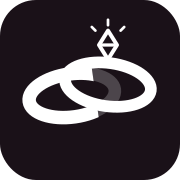
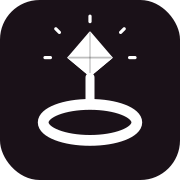
Brunch oui/non, stats 4+3 colonnes, icône solitaire, sync Supabase prioritaire
https://claude.ai/code/session_01TzBPeyMmDh2J5GMainPLPY

diff --git a/index.html b/index.html
@@ -488,6 +488,72 @@ body {
 
 /* ── CATEGORY TAG ── */
 .tag-cat { background: var(--gold-dim); color: var(--gold); }
+.tag-std-envoyé  { background: rgba(245,158,11,0.12); color: #b45309; border: 1.5px solid #f59e0b; }
+.tag-std-confirmé { background: var(--green-dim); color: var(--green); border: 1.5px solid var(--green); }
+.tag-brunch { background: var(--blue-dim); color: var(--blue); border: 1.5px solid var(--blue); }
+
+/* ── LOGIN ── */
+.login-screen {
+  position: fixed; inset: 0; z-index: 100;
+  background: var(--bg);
+  display: flex; flex-direction: column;
+  align-items: center; justify-content: center;
+  padding: 40px 24px;
+}
+.login-title { font-size: 52px; font-weight: 800; letter-spacing: -2px; color: var(--text); margin-bottom: 6px; }
+.login-sub { font-size: 16px; color: var(--muted); margin-bottom: 48px; font-weight: 500; }
+.user-btns { display: flex; gap: 20px; }
+.user-btn {
+  flex: 1; min-width: 130px;
+  background: var(--surface); border: 2px solid var(--border);
+  border-radius: var(--radius-lg); padding: 28px 20px;
+  cursor: pointer; transition: all var(--t);
+  display: flex; flex-direction: column; align-items: center; gap: 10px;
+  box-shadow: var(--shadow);
+  font-family: 'Inter', sans-serif;
+}
+.user-btn:active { transform: scale(.96); border-color: var(--accent); }
+.user-btn .u-avatar { font-size: 40px; line-height: 1; }
+.user-btn .u-name { font-size: 16px; font-weight: 700; color: var(--text); letter-spacing: -.3px; }
+
+/* ── USER CHIP ── */
+.user-chip {
+  display: inline-flex; align-items: center; gap: 5px;
+  background: var(--accent-dim); color: var(--accent);
+  font-size: 11px; font-weight: 600;
+  padding: 3px 8px; border-radius: 20px; cursor: pointer;
+  border: none; font-family: 'Inter', sans-serif;
+}
+
+/* ── BRUNCH TOGGLE ── */
+.btn-toggle-brunch {
+  flex: 1;
+  padding: 10px 8px;
+  border-radius: var(--radius-sm);
+  border: 1.5px solid var(--border);
+  background: var(--surface2);
+  color: var(--text2);
+  font-size: 13px;
+  font-weight: 600;
+  cursor: pointer;
+  font-family: 'Inter', sans-serif;
+  transition: all var(--t);
+}
+.btn-toggle-brunch.active-oui { background: var(--green-dim); border-color: var(--green); color: var(--green); }
+.btn-toggle-brunch.active-non { background: var(--red-dim); border-color: var(--red); color: var(--red); }
+
+/* ── ACTIVITY LOG ── */
+.act-card {
+  background: var(--surface); border-radius: var(--radius);
+  padding: 12px 16px; border: 1px solid var(--border);
+  margin-bottom: 8px; box-shadow: var(--shadow-sm);
+}
+.act-header { display: flex; justify-content: space-between; align-items: center; margin-bottom: 4px; }
+.act-user { font-size: 12px; font-weight: 700; }
+.act-user.nounou { color: #1565c0; }
+.act-user.nounette { color: #c2185b; }
+.act-time { font-size: 11px; color: var(--muted); }
+.act-action { font-size: 13px; color: var(--text2); font-weight: 500; }
 </style>
 </head>
 <body>
@@ -634,12 +700,20 @@ body {
         </select>
       </div>
     </div>
-    <div class="field"><label>Save the Date (STD)</label>
-      <select id="g-std">
-        <option value="">— Non envoyé —</option>
-        <option value="envoyé">📩 Envoyé</option>
-        <option value="confirmé">📩 Confirmé</option>
-      </select>
+    <div class="two-col">
+      <div class="field"><label>Save the Date (STD)</label>
+        <select id="g-std">
+          <option value="">— Non envoyé —</option>
+          <option value="envoyé">📩 Envoyé</option>
+          <option value="confirmé">📩 Confirmé</option>
+        </select>
+      </div>
+      <div class="field"><label>Brunch</label>
+        <div style="display:flex;gap:8px;margin-top:2px">
+          <button type="button" id="g-brunch-oui" onclick="setBrunch('oui')" class="btn-toggle-brunch">✅ Oui</button>
+          <button type="button" id="g-brunch-non" onclick="setBrunch('non')" class="btn-toggle-brunch">❌ Non</button>
+        </div>
+      </div>
     </div>
     <div class="two-col">
       <div class="field"><label>Repas</label>
@@ -893,16 +967,20 @@ function clearActivity() {
 // ────────────────────────────────────────────────────────────────
 let gFilter = 'tous';
 let stdFilter = '';
+let brunchFilter = false;
 function statGuestFilter(f, sf) {
   gFilter = f;
   stdFilter = sf;
+  brunchFilter = (f === 'brunch');
+  if (brunchFilter) gFilter = 'tous';
   renderGuests();
 }
 function renderGuests() {
   const cote = document.getElementById('g-cote-filter').value;
   const cat  = document.getElementById('g-cat-filter').value;
   let list = guests.filter(g => {
-    if (gFilter !== 'tous' && g.statut !== gFilter) return false;
+    if (brunchFilter && g.brunch !== 'oui') return false;
+    if (!brunchFilter && gFilter !== 'tous' && g.statut !== gFilter) return false;
     if (stdFilter && g.std !== stdFilter) return false;
     if (cote && g.cote !== cote) return false;
     if (cat  && g.categorie !== cat) return false;
@@ -916,14 +994,20 @@ function renderGuests() {
   const stdEnvoye  = guests.filter(g => g.std === 'envoyé').length;
   const stdConfirm = guests.filter(g => g.std === 'confirmé').length;
   const totalNet   = oui + peutEtre;
-  document.getElementById('guests-stats').className = 'stats-row stats-3';
+  const brunchOui = guests.filter(g => g.brunch === 'oui').length;
+  document.getElementById('guests-stats').className = 'stats-row';
   document.getElementById('guests-stats').innerHTML = `
-    <div class="stat-card${gFilter==='tous'&&stdFilter===''?' active':''}" onclick="statGuestFilter('tous','')"><div class="stat-num">${totalNet}</div><div class="stat-lbl">Total</div></div>
-    <div class="stat-card${gFilter==='oui'?' active':''}" onclick="statGuestFilter('oui','')"><div class="stat-num" style="color:var(--green)">${oui}</div><div class="stat-lbl">Oui ✅</div></div>
-    <div class="stat-card${gFilter==='peut-être'?' active':''}" onclick="statGuestFilter('peut-être','')"><div class="stat-num" style="color:#b45309">${peutEtre}</div><div class="stat-lbl">Peut-être ❓</div></div>
-    <div class="stat-card${gFilter==='non'?' active':''}" onclick="statGuestFilter('non','')"><div class="stat-num" style="color:var(--red)">${non}</div><div class="stat-lbl">Non ❌</div></div>
-    <div class="stat-card${stdFilter==='envoyé'?' active':''}" onclick="statGuestFilter('tous','envoyé')"><div class="stat-num" style="color:#b45309">${stdEnvoye}</div><div class="stat-lbl">STD envoyé 📩</div></div>
-    <div class="stat-card${stdFilter==='confirmé'?' active':''}" onclick="statGuestFilter('tous','confirmé')"><div class="stat-num" style="color:var(--green)">${stdConfirm}</div><div class="stat-lbl">STD confirmé ✓</div></div>
+    <div style="grid-column:1/-1;display:grid;grid-template-columns:repeat(4,1fr);gap:8px">
+      <div class="stat-card${gFilter==='tous'&&stdFilter===''?' active':''}" onclick="statGuestFilter('tous','')"><div class="stat-num">${totalNet}</div><div class="stat-lbl">Total</div></div>
+      <div class="stat-card${gFilter==='oui'?' active':''}" onclick="statGuestFilter('oui','')"><div class="stat-num" style="color:var(--green)">${oui}</div><div class="stat-lbl">Oui ✅</div></div>
+      <div class="stat-card${gFilter==='peut-être'?' active':''}" onclick="statGuestFilter('peut-être','')"><div class="stat-num" style="color:#b45309">${peutEtre}</div><div class="stat-lbl">Peut-être ❓</div></div>
+      <div class="stat-card${gFilter==='non'?' active':''}" onclick="statGuestFilter('non','')"><div class="stat-num" style="color:var(--red)">${non}</div><div class="stat-lbl">Non ❌</div></div>
+    </div>
+    <div style="grid-column:1/-1;display:grid;grid-template-columns:repeat(3,1fr);gap:8px">
+      <div class="stat-card${stdFilter==='envoyé'?' active':''}" onclick="statGuestFilter('tous','envoyé')"><div class="stat-num" style="color:#b45309">${stdEnvoye}</div><div class="stat-lbl">STD envoyé 📩</div></div>
+      <div class="stat-card${stdFilter==='confirmé'?' active':''}" onclick="statGuestFilter('tous','confirmé')"><div class="stat-num" style="color:var(--green)">${stdConfirm}</div><div class="stat-lbl">STD confirmé ✓</div></div>
+      <div class="stat-card${gFilter==='brunch'?' active':''}" onclick="statGuestFilter('brunch','')"><div class="stat-num" style="color:var(--blue)">${brunchOui}</div><div class="stat-lbl">Brunch 🥐</div></div>
+    </div>
   `;
   const el = document.getElementById('guests-list');
   if (!list.length) {
@@ -942,12 +1026,23 @@ function renderGuests() {
     const statutLabel = isSTDConf ? 'STD confirmé' : isSTD ? 'Save the date' : g.statut;
     const statutClass = g.statut === 'oui' ? 'oui' : g.statut === 'non' ? 'non' : g.statut === 'peut-être' ? 'peut-être' : isSTDConf ? 'savedatedone' : isSTD ? 'savethedate' : 'invité';
     const coteIcon = g.cote === 'nounou' ? '🤵🏻' : g.cote === 'nounette' ? '👰🏼' : '🤝';
-    const coteClass = g.cote === 'nounou' ? 'nounou' : g.cote === 'nounette' ? 'nounette' : 'commun';
-    return `<div class="card" onclick="editGuest('${g.id}')">
+    const coteCardClass = g.cote === 'nounette' ? 'card-nounette' : g.cote === 'nounou' ? 'card-nounou' : '';
+    const stdBadge = g.std === 'confirmé'
+      ? `<span class="tag tag-std-confirmé">📩✓</span>`
+      : g.std === 'envoyé'
+      ? `<span class="tag tag-std-envoyé">📩</span>`
+      : '';
+    const brunchBadge = g.brunch === 'oui' ? `<span class="tag tag-brunch">🥐 Brunch</span>` : '';
+    return `<div class="card ${coteCardClass}" onclick="editGuest('${g.id}')">
+      <span style="font-size:16px;flex-shrink:0">${coteIcon}</span>
       <div class="card-row">
-        <div>
-          <div class="card-name">${g.prenom}${g.nom ? ' ' + g.nom : ''}</div>
-          <div class="card-sub">${g.table_num ? 'Table ' + g.table_num : ''}${g.couchage ? (g.table_num ? ' · ' : '') + g.couchage : ''}</div>
+        <div class="card-name" style="flex:1">${esc(g.prenom)}${g.nom ? ' ' + esc(g.nom) : ''}</div>
+        <div class="tags">
+          ${g.categorie ? `<span class="tag tag-cat">${esc(g.categorie)}</span>` : ''}
+          ${stdBadge}
+          ${brunchBadge}
+          ${g.notes ? `<span style="font-size:12px">📝</span>` : ''}
+          <span class="tag tag-${statutClass}">${statutIcon}</span>
         </div>
         <span class="tag tag-${statutClass}" style="display:inline-flex;align-items:center;gap:3px">${statutIcon} ${statutLabel}</span>
       </div>
@@ -977,10 +1072,19 @@ function openGuestModal(id = null) {
   document.getElementById('g-nomgite').value = g?.nom_gite || '';
   document.getElementById('g-table').value = g?.table_num || '';
   document.getElementById('g-notes').value = g?.notes || '';
+  gBrunch = g?.brunch || '';
+  document.getElementById('g-brunch-oui').className = 'btn-toggle-brunch' + (gBrunch === 'oui' ? ' active-oui' : '');
+  document.getElementById('g-brunch-non').className = 'btn-toggle-brunch' + (gBrunch === 'non' ? ' active-non' : '');
   onCouchageChange();
   document.getElementById('g-del-btn').style.display = id ? 'block' : 'none';
   document.getElementById('guest-overlay').classList.add('open');
   setTimeout(() => document.getElementById('g-prenom').focus(), 100);
+}
+let gBrunch = '';
+function setBrunch(val) {
+  gBrunch = gBrunch === val ? '' : val;
+  document.getElementById('g-brunch-oui').className = 'btn-toggle-brunch' + (gBrunch === 'oui' ? ' active-oui' : '');
+  document.getElementById('g-brunch-non').className = 'btn-toggle-brunch' + (gBrunch === 'non' ? ' active-non' : '');
 }
 function onCouchageChange() {
   const v = document.getElementById('g-couchage').value;
@@ -1008,6 +1112,7 @@ function saveGuest() {
     nom_gite: document.getElementById('g-nomgite').value.trim(),
     table_num: parseInt(document.getElementById('g-table').value) || null,
     notes:    document.getElementById('g-notes').value.trim(),
+    brunch:   gBrunch,
   };
   if (editingGuestId) guests = guests.map(x => x.id === editingGuestId ? g : x);
   else guests.unshift(g);
@@ -1225,8 +1330,8 @@ function deleteBudget() {
 });
 
 // ── INITIAL RENDER ────────────────────────────────────────────────
-renderGuests();
 initUser();
+renderGuests(); // renders from localStorage immediately (offline fallback)
 
 // ── IMPORT INITIAL ────────────────────────────────────────────────────────
 (function() {
@@ -1238,32 +1343,35 @@ initUser();
   renderGuests();
 })();
 
-// ── CLOUD SYNC ────────────────────────────────────────────────────
+// ── CLOUD SYNC (source of vérité = Supabase) ─────────────────────────────
 (async () => {
   if (!sb) return;
-  const [cloudGuests, cloudTasks, cloudBudget] = await Promise.all([
-    sbFetch('guests'), sbFetch('wedding_tasks'), sbFetch('budget_items')
-  ]);
-  let changed = false;
-  if (cloudGuests?.length) {
-    const valid = cloudGuests.filter(g => g && g.id && g.prenom);
-    if (valid.length) { guests = valid; changed = true; }
-  } else if (cloudGuests !== null && guests.length) {
-    await Promise.all(guests.map(g => sbUpsert('guests', g)));
-  }
-  if (cloudTasks?.length) {
-    const valid = cloudTasks.filter(t => t && t.id && t.titre);
-    if (valid.length) { tasks = valid; changed = true; }
-  } else if (cloudTasks !== null && tasks.length) {
-    await Promise.all(tasks.map(t => sbUpsert('wedding_tasks', t)));
-  }
-  if (cloudBudget?.length) {
-    const valid = cloudBudget.filter(b => b && b.id && b.description);
-    if (valid.length) { budget = valid; changed = true; }
-  } else if (cloudBudget !== null && budget.length) {
-    await Promise.all(budget.map(b => sbUpsert('budget_items', b)));
-  }
-  if (changed) { saveState(); renderGuests(); renderTasks(); renderBudget(); }
+  try {
+    const [cloudGuests, cloudTasks, cloudBudget] = await Promise.all([
+      sbFetch('guests'), sbFetch('wedding_tasks'), sbFetch('budget_items')
+    ]);
+    let changed = false;
+    if (cloudGuests?.length) {
+      const valid = cloudGuests.filter(g => g && g.id && g.prenom);
+      if (valid.length) { guests = valid; changed = true; }
+    } else if (cloudGuests !== null && guests.length) {
+      // Supabase vide → on pousse le local
+      await Promise.all(guests.map(g => sbUpsert('guests', g)));
+    }
+    if (cloudTasks?.length) {
+      const valid = cloudTasks.filter(t => t && t.id && t.titre);
+      if (valid.length) { tasks = valid; changed = true; }
+    } else if (cloudTasks !== null && tasks.length) {
+      await Promise.all(tasks.map(t => sbUpsert('wedding_tasks', t)));
+    }
+    if (cloudBudget?.length) {
+      const valid = cloudBudget.filter(b => b && b.id && b.description);
+      if (valid.length) { budget = valid; changed = true; }
+    } else if (cloudBudget !== null && budget.length) {
+      await Promise.all(budget.map(b => sbUpsert('budget_items', b)));
+    }
+    if (changed) { saveState(); renderGuests(); if (currentSection==='tasks') renderTasks(); if (currentSection==='budget') renderBudget(); }
+  } catch(e) { console.warn('[sync]', e); }
 })();
 </script>
 

diff --git a/service-worker.js b/service-worker.js
@@ -1,6 +1,6 @@
 $ cat /home/user/mariage-nounous/service-worker.js
 
-const CACHE_NAME = 'mariage-nounous-v14';
+const CACHE_NAME = 'mariage-nounous-v15';
 
 const PRECACHE_ASSETS = [
   '/bigday-nounoux/',